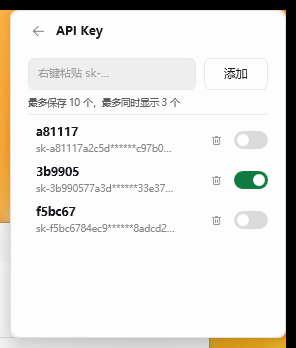
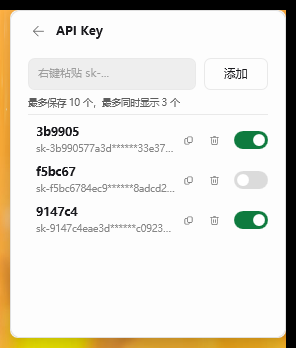
feat: v2.1 设置页失焦自动返回 + Key 复制（v2.1.0）
- 停留在设置页 / API Key 页时，窗口失焦满 10 秒自动回到主界面；
  重新获得焦点会取消计时
- API Key 每行新增复制按钮，把完整 Key 写入剪贴板并提示结果；
  写入失败重试 5 次，并用读回内容判断是否真的成功
- 开关 / 分段按钮配色与余额解耦，改为固定品牌绿
- README 与截图更新到 v2.1

diff --git a/native/ui_main.cs b/native/ui_main.cs
@@ -146,7 +146,7 @@ namespace Dsb
         private readonly DispatcherTimer _timer = new DispatcherTimer();
 
         private Palette _pal;
-        private SolidColorBrush _bText, _bSub, _bCard, _bBorder, _bHover, _bAccent;
+        private SolidColorBrush _bText, _bSub, _bCard, _bBorder, _bHover, _bAccent, _bControl;
         private Canvas _root, _details, _multi;
         private Border _card, _foldBtn, _themeBtn;
         private Canvas _wave;
@@ -207,6 +207,7 @@ namespace Dsb
             _bBorder = Ui.Brush(_pal.Border);
             _bHover = Ui.Brush(_pal.Hover);
             _bAccent = Ui.Brush(AccentFor(0));
+            _bControl = Ui.Brush(ControlColor());
 
             _root = new Canvas();
             _root.Width = WinW;
@@ -318,6 +319,63 @@ namespace Dsb
             MouseRightButtonUp += OnRightUp;
             MouseMove += OnRootMove;
             MouseLeftButtonUp += OnRootUp;
+            Deactivated += OnWindowDeactivated;
+            Activated += OnWindowActivated;
+        }
+
+        // ------------------------------------------- 失焦 10 秒自动回主界面
+        private DispatcherTimer _idleTimer;
+
+        private void OnWindowDeactivated(object sender, EventArgs e)
+        {
+            if (_diagMode) return;                      // 诊断为测试保留页面
+            if (_activeView == null || _activeView == _mainView) return;
+            if (_idleTimer == null)
+            {
+                _idleTimer = new DispatcherTimer();
+                _idleTimer.Interval = TimeSpan.FromSeconds(10);
+                _idleTimer.Tick += delegate
+                {
+                    _idleTimer.Stop();
+                    AutoReturnToMain();
+                };
+            }
+            _idleTimer.Stop();
+            _idleTimer.Start();
+        }
+
+        private void OnWindowActivated(object sender, EventArgs e)
+        {
+            if (_idleTimer != null) _idleTimer.Stop();
+        }
+
+        private void AutoReturnToMain()
+        {
+            if (IsActive) return;                       // 已经回到前台
+            if (_activeView == null || _activeView == _mainView) return;
+            ResetToMain();
+        }
+
+        /// 立即切回主界面（无动画：此时窗口通常不在前台）
+        private void ResetToMain()
+        {
+            if (_activeView == null || _activeView == _mainView) return;
+            Canvas from = _activeView;
+
+            from.BeginAnimation(UIElement.OpacityProperty, null);
+            from.Opacity = 0;
+            from.IsHitTestVisible = false;
+            from.Visibility = Visibility.Collapsed;
+
+            _mainView.BeginAnimation(UIElement.OpacityProperty, null);
+            _mainView.Opacity = 1;
+            _mainView.Visibility = Visibility.Visible;
+            _mainView.IsHitTestVisible = true;
+
+            _activeView = _mainView;
+            _busyTransition = false;
+            if (_fxLayer != null) _fxLayer.Visibility = Visibility.Collapsed;
+            AnimateHeight(MainHeight());
         }
 
         private static Viewbox MakeWhale(double w, double h, Brush fill, double opacity)
@@ -614,6 +672,11 @@ namespace Dsb
                 st.ScaleY = 0;
                 _bCard.BeginAnimation(SolidColorBrush.ColorProperty, null);
                 _bCard.Color = _pal.Card;
+                if (_bControl != null)
+                {
+                    _bControl.BeginAnimation(SolidColorBrush.ColorProperty, null);
+                    _bControl.Color = ControlColor();
+                }
             };
             st.BeginAnimation(ScaleTransform.ScaleXProperty, grow);
             st.BeginAnimation(ScaleTransform.ScaleYProperty, grow);
@@ -639,6 +702,11 @@ namespace Dsb
             _bBorder.Color = _pal.Border;
             _bHover.Color = _pal.Hover;
             _bCard.Color = _pal.Card;
+            if (_bControl != null)
+            {
+                _bControl.BeginAnimation(SolidColorBrush.ColorProperty, null);
+                _bControl.Color = ControlColor();
+            }
             Native.ApplyBackdrop(_hwnd, IsDark);
         }
 
@@ -653,6 +721,12 @@ namespace Dsb
             a.EasingFunction = new BackEase { EasingMode = EasingMode.EaseOut, Amplitude = 0.4 };
             st.BeginAnimation(ScaleTransform.ScaleXProperty, a);
             st.BeginAnimation(ScaleTransform.ScaleYProperty, a);
+        }
+
+        /// 开关 / 分段按钮的固定色（不随余额变化）
+        private Color ControlColor()
+        {
+            return IsDark ? Color.FromRgb(0x6C, 0xCB, 0x5F) : Color.FromRgb(0x0F, 0x7B, 0x3F);
         }
 
         private Color AccentFor(double total)
@@ -1112,8 +1186,11 @@ namespace Dsb
             RunDiag(false);
         }
 
+        private bool _diagMode;
+
         public void RunDiag(bool stay, bool keys)
         {
+            _diagMode = true;
             if (keys)
             {
                 ShowKeyPage();
@@ -1519,7 +1596,7 @@ namespace Dsb
             _keyPage = new KeyPage(_keys,
                 delegate { _stats.Save(); FetchAsync(); },
                 delegate { CloseKeyPage(); },
-                _bText, _bSub, _bBorder, _bHover, _bAccent, _bInput, IsDark);
+                _bText, _bSub, _bBorder, _bHover, _bControl, _bInput, IsDark);
             _keyView = _keyPage.View;
             _keyView.Visibility = Visibility.Collapsed;
             _keyView.Opacity = 0;
@@ -1571,7 +1648,7 @@ namespace Dsb
         {
             if (sw == null) return;
             sw.Background = on
-                ? _bAccent
+                ? _bControl
                 : Ui.Brush(IsDark ? Color.FromArgb(0x3A, 0xFF, 0xFF, 0xFF) : Color.FromArgb(0x22, 0, 0, 0));
             Ellipse knob = sw.Child as Ellipse;
             if (knob != null)
@@ -1606,7 +1683,7 @@ namespace Dsb
         {
             if (b == null) return;
             TextBlock t = b.Child as TextBlock;
-            b.Background = active ? _bAccent : Brushes.Transparent;
+            b.Background = active ? _bControl : Brushes.Transparent;
             b.BorderBrush = _bBorder;
             b.BorderThickness = active ? new Thickness(0) : new Thickness(1);
             if (t != null) t.Foreground = active ? Ui.Brush(Colors.White) : _bSub;

diff --git a/native/ui_keypage.cs b/native/ui_keypage.cs
@@ -5,6 +5,7 @@ using System.Windows;
 using System.Windows.Controls;
 using System.Windows.Input;
 using System.Windows.Media;
+using System.Windows.Threading;
 using System.Windows.Shapes;
 
 namespace Dsb
@@ -28,7 +29,6 @@ namespace Dsb
         private TextBox _renameBox;
         private TextBlock _confirmText;
         private int _renaming = -1, _pending = -1;
-
         public KeyPage(List<KeyItem> keys, Action changed, Action back,
             SolidColorBrush text, SolidColorBrush sub, SolidColorBrush border,
             SolidColorBrush hover, SolidColorBrush accent, SolidColorBrush input, bool dark)
@@ -214,6 +214,27 @@ namespace Dsb
                 masked.TextTrimming = TextTrimming.CharacterEllipsis;
                 Ui.Place(c, masked, 8, 22);
 
+                // 复制 Key
+                Border copy = new Border();
+                copy.Width = 20;
+                copy.Height = 20;
+                copy.CornerRadius = new CornerRadius(4);
+                copy.Background = Brushes.Transparent;
+                copy.Cursor = Cursors.Hand;
+                TextBlock copyIcon = Ui.Icon("\uE8C8", 9, _sub);
+                copyIcon.HorizontalAlignment = HorizontalAlignment.Center;
+                copyIcon.VerticalAlignment = VerticalAlignment.Center;
+                copy.Child = copyIcon;
+                copy.MouseEnter += delegate { copy.Background = _hover; };
+                copy.MouseLeave += delegate { copy.Background = Brushes.Transparent; };
+                copy.MouseLeftButtonUp += delegate (object s, MouseButtonEventArgs e)
+                {
+                    e.Handled = true;
+                    CopyKey(k);
+                };
+                MainWindow.SetInteractive(copy, true);
+                Ui.Place(c, copy, 150, 10);
+
                 // 删除
                 Border del = new Border();
                 del.Width = 20;
@@ -236,7 +257,7 @@ namespace Dsb
                     RefreshConfirmText();
                 };
                 MainWindow.SetInteractive(del, true);
-                Ui.Place(c, del, 178, 10);
+                Ui.Place(c, del, 176, 10);
 
                 // 开关
                 Border sw = new Border();
@@ -455,6 +476,31 @@ namespace Dsb
                 RefreshRows();
                 if (_changed != null) _changed();
             }
+        }
+
+        /// 把完整 Key 复制到剪贴板（界面线程内有限次重试，避免挂起）
+        private void CopyKey(KeyItem k)
+        {
+            if (k == null) return;
+            string text = k.Key ?? "";
+            string label = string.IsNullOrEmpty(k.Name) ? "Key" : k.Name;
+
+            bool ok = false;
+            for (int i = 0; i < 5 && !ok; i++)
+            {
+                try
+                {
+                    Clipboard.SetText(text);
+                    ok = true;
+                }
+                catch
+                {
+                    // 有时数据已写入但关闭剪贴板失败，以内容为准再判断
+                    try { ok = Clipboard.GetText() == text; } catch { }
+                    if (!ok) System.Threading.Thread.Sleep(90);
+                }
+            }
+            SetHint(ok ? "已复制 " + label + " 到剪贴板" : "剪贴板被占用，请稍后再试", !ok);
         }
 
         // -------------------------------------------------------------- 操作

diff --git a/native/AssemblyInfo.cs b/native/AssemblyInfo.cs
@@ -1,6 +1,6 @@
 using System.Reflection;
-[assembly: AssemblyVersion("2.0.0.0")]
-[assembly: AssemblyFileVersion("2.0.0.0")]
+[assembly: AssemblyVersion("2.1.0.0")]
+[assembly: AssemblyFileVersion("2.1.0.0")]
 [assembly: AssemblyProduct("DeepSeek 余额悬浮窗")]
 [assembly: AssemblyTitle("DeepSeek 余额悬浮窗")]
 [assembly: AssemblyCompany("K3huazhi")]

diff --git a/README.md b/README.md
@@ -2,7 +2,7 @@
 
 一个用于实时显示 DeepSeek API 账户余额的 Windows 桌面悬浮窗，采用 WinUI 3 / Fluent Design 风格，支持系统云母（Mica）背板、亮暗主题、多 Key 管理与用量统计。
 
-> 原生 C# + WPF 实现，单个约 115 KB 的 exe，无任何外部依赖；Windows 10 1903+ / 11 双击即用。
+> 原生 C# + WPF 实现，单个约 116 KB 的 exe，无任何外部依赖；Windows 10 1903+ / 11 双击即用。
 
 ---
 
@@ -15,14 +15,14 @@
 
 | 版本 | 体积 | 依赖 | 说明 |
 | --- | --- | --- | --- |
-| **v2.0 原生版** | **115 KB** | 无（.NET Framework 4.8 系统自带） | 推荐 |
+| **v2.1 原生版** | **116 KB** | 无（.NET Framework 4.8 系统自带） | 推荐 |
 | v1.x Python 版 | 55.8 MB / 126 KB | 内置运行时 / 需 Python | 已归档，不再更新 |
 
-### v2.0 原生版（推荐）
+### v2.1 原生版（推荐）
 
-**[⬇ DeepSeek-Balance-Float-v2.0.0.exe](https://github.com/K3huazhi/deepseek-balance-float/releases/download/v2.0.0/DeepSeek-Balance-Float-v2.0.0.exe)** · 115 KB
+**[⬇ DeepSeek-Balance-Float-v2.1.0.exe](https://github.com/K3huazhi/deepseek-balance-float/releases/download/v2.1.0/DeepSeek-Balance-Float-v2.1.0.exe)** · 116 KB
 
[2 lines of base64/hex data omitted]
 
 Windows 10 1903+ 与 Windows 11 自带 .NET Framework 4.8，所以**不需要安装 Python，也不需要装任何运行时**，
 双击即用，启动不到 1 秒。
@@ -53,6 +53,7 @@ Windows 10 1903+ 与 Windows 11 自带 .NET Framework 4.8，所以**不需要安
 - **余额动效**：数字滚动计数，余额减少时抖动并飘出红色 `-¥0.01`
 - **拖动定位**：5 px 起拖（手抖不会误拖），靠近屏幕边缘 12 px 自动吸附，
   位置自动记忆，多显示器各自吸附
+- **失焦自动返回**：停留在设置页或 API Key 页时，窗口失去焦点满 10 秒会自动回到主界面
 - **可置顶、可开机自启**
 
 ### 数据
@@ -119,6 +120,7 @@ Windows 10 1903+ 与 Windows 11 自带 .NET Framework 4.8，所以**不需要安
 | 右上角 ☀ / ☾ / Auto | 循环切换：亮色 → 暗色 → 自动 |
 | 点 Key 名称 | 在底部改名条中重命名（Enter 保存，Esc 取消） |
 | 拨动开关 | 控制该 Key 是否显示在悬浮窗（最多 3 个） |
+| 复制图标 | 把完整 Key 复制到剪贴板（界面上只显示掩码） |
 | 垃圾桶图标 | 删除 Key（有二次确认） |
 
 ### 设置页
